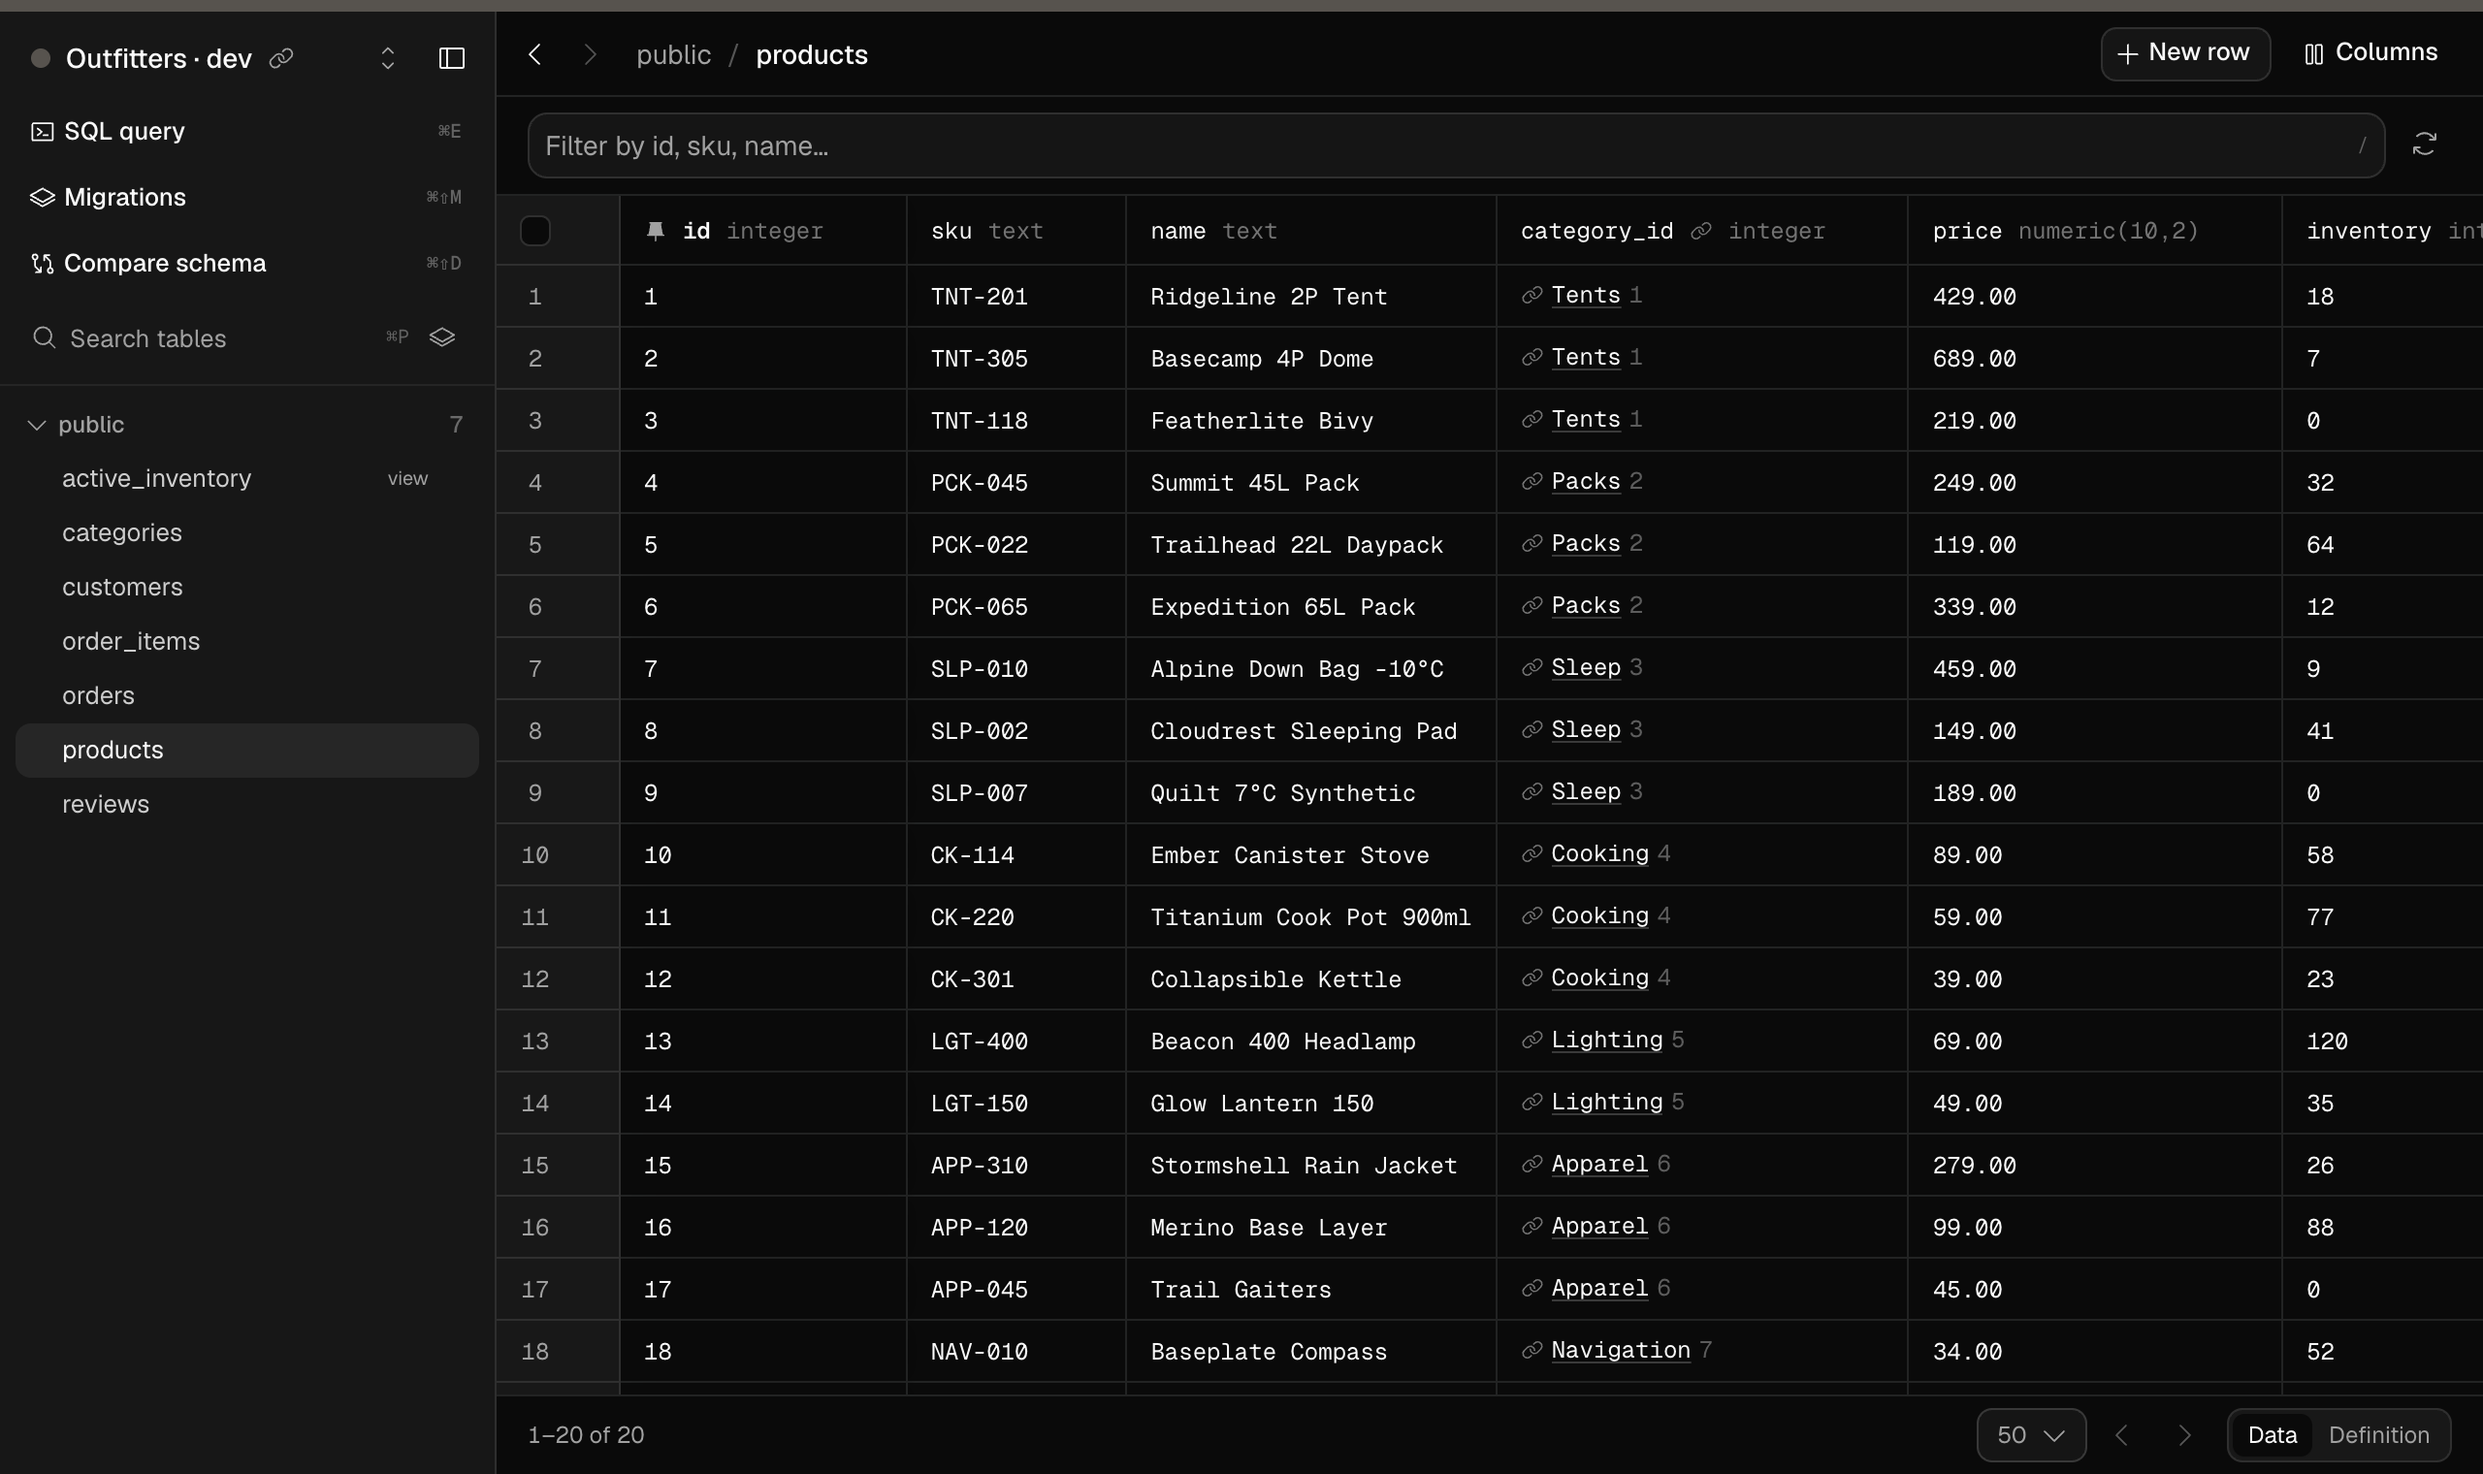
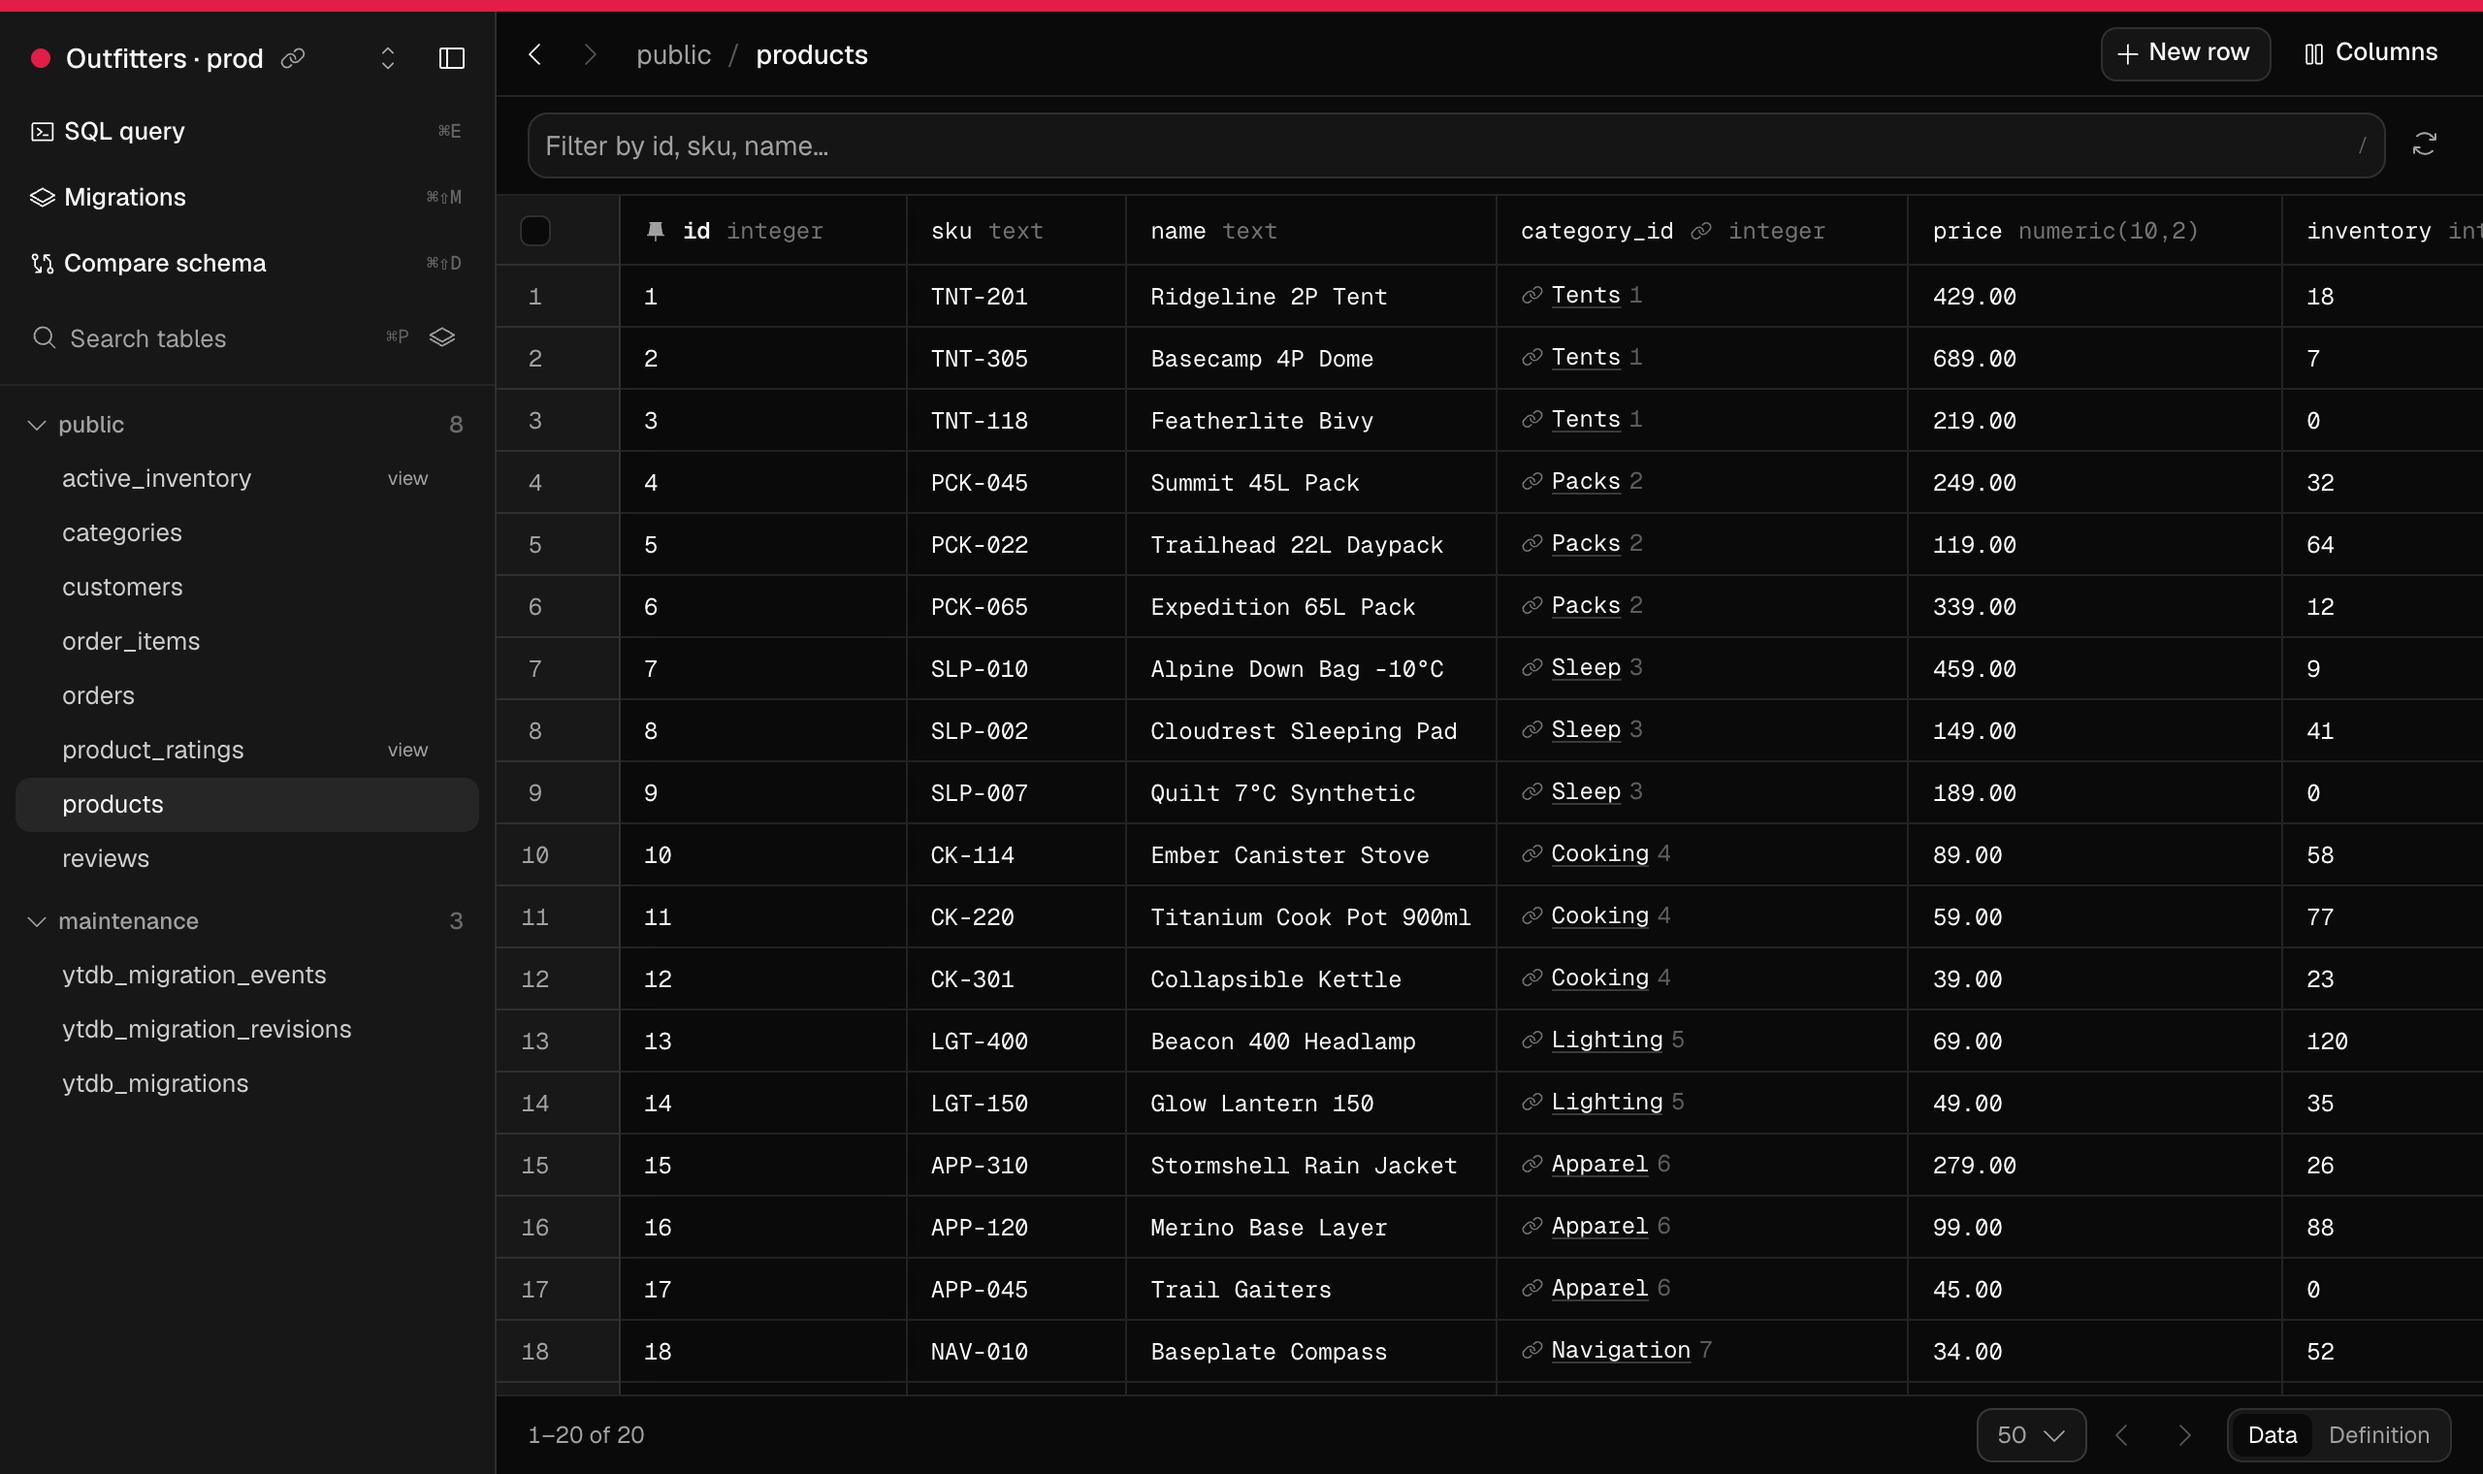
Show off migrations and environment colors in README (#2)

Changed region(s): [[0.0, 0.0, 1.0, 0.0618], [0.0312, 0.6184, 0.125, 0.7421], [0.0312, 0.4947, 0.0938, 0.5875]]

diff --git a/README.md b/README.md
@@ -1,9 +1,11 @@
 # YTDB
 
-YTDB is a fast, local-first PostgreSQL browser for exploring and editing databases without leaving the keyboard. Run `npx @theobourgeois/ytdb` and it opens in your browser, with every query going through a small process on your own machine, so connection strings and data never leave it. You can browse and edit tables, follow foreign keys, run read-only SQL, compare two databases' schemas to generate the migration between them, and apply or revert a folder of migrations across environments.
+YTDB is a fast, local-first PostgreSQL browser and migration tool. Run `npx @theobourgeois/ytdb` and it opens in your browser, with every query going through a small process on your own machine, so connection strings and data never leave it. Point it at your repo's migrations folder and it shows where dev, staging and prod each stand on every migration, lets you apply or revert them one step at a time with notes for whoever runs them next, and keeps a timeline of every run in the database itself. Each environment gets its own color, so you always know whether you're about to touch prod. It also browses and edits tables, follows foreign keys, runs read-only SQL, and diffs two databases' schemas into migration SQL.
 
-![Browsing a products table with foreign keys to categories](docs/images/table.png)
+![The migrations list showing which migrations dev, staging and prod have applied](docs/images/migrations.png)
 
-![Running a SQL query that ranks customers by revenue](docs/images/query.png)
+![A migration's page on staging with its note and a per-environment checklist](docs/images/migration-detail.png)
 
-![Comparing dev and prod schemas and generating the migration SQL](docs/images/compare.png)
+![The timeline of migration runs across all three environments](docs/images/timeline.png)
+
+![Browsing the products table on prod](docs/images/table.png)
